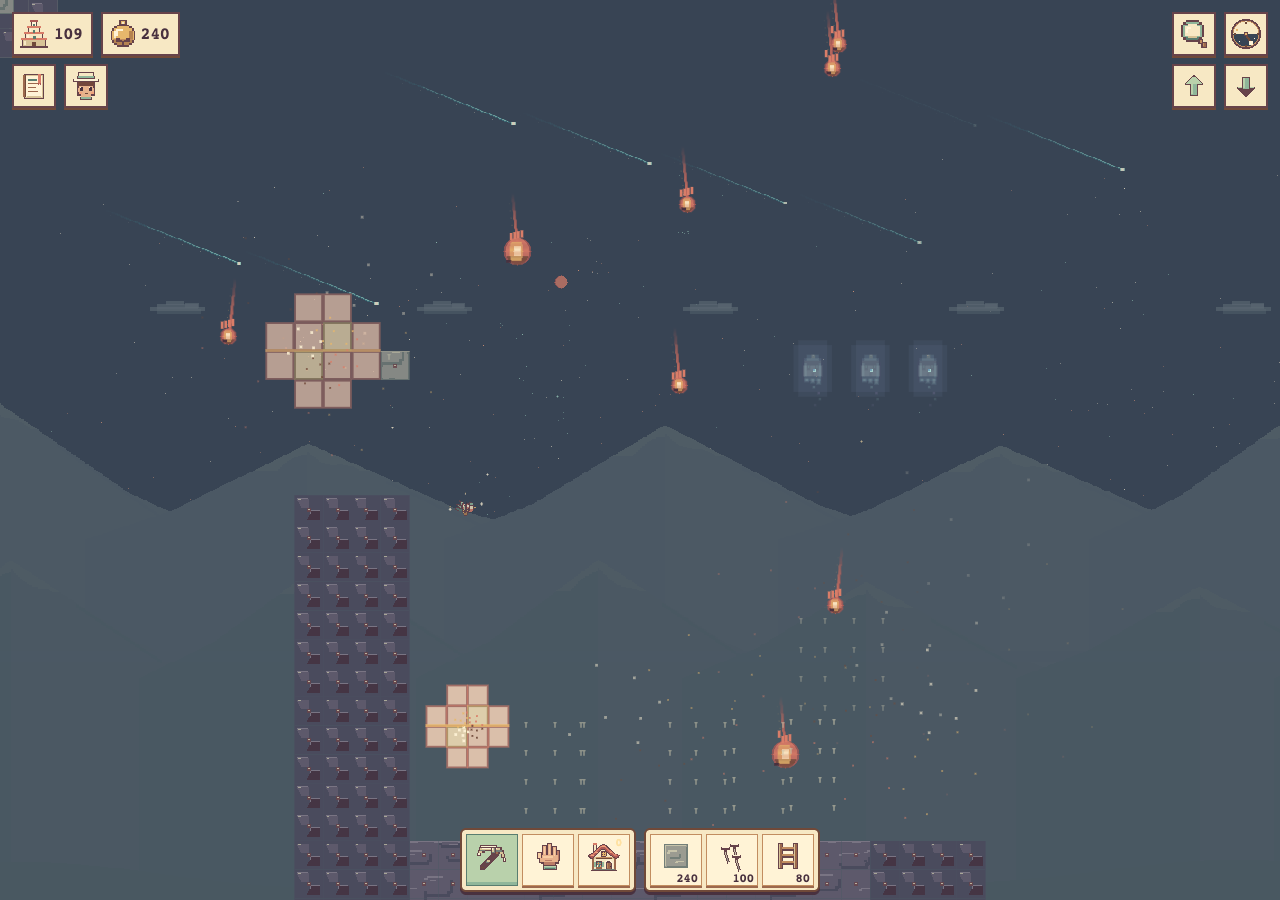
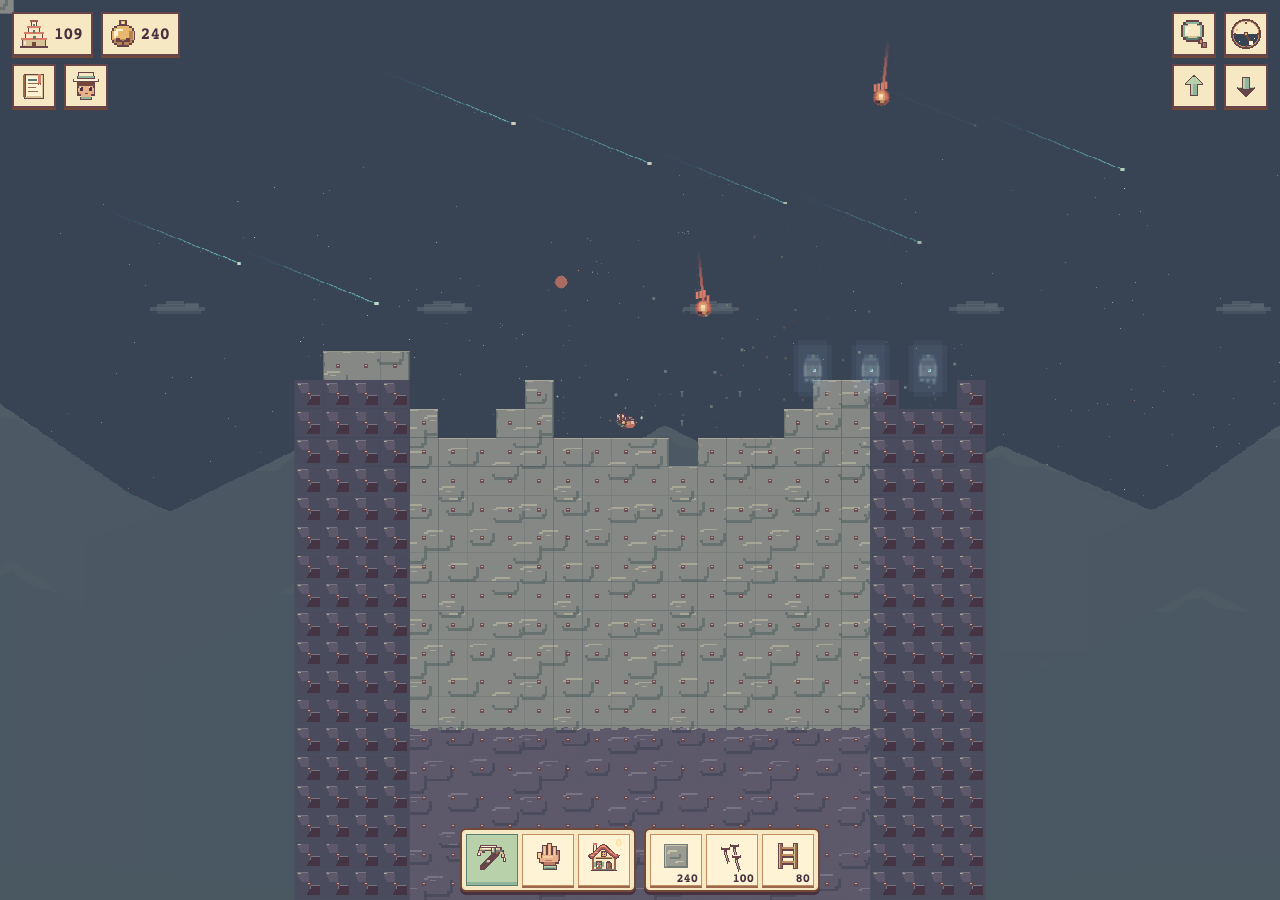
Fracture brimstone-hit blocks locally and preserve strong materials

diff --git a/dist/index.html b/dist/index.html
@@ -152,7 +152,7 @@
 </div>
 <script src="https://cdn.jsdelivr.net/npm/matter-js@0.20.0/build/matter.min.js"></script>
 <script src="audio.js?v=83"></script>
-<script src="game-v28.js?v=83"></script>
+<script src="game-v28.js?v=84"></script>
 <script>
 for(const [id,label,fn] of [['musicToggle','MUSIC', 'setMusicEnabled'],['sfxToggle','SFX','setSfxEnabled']])document.getElementById(id).addEventListener('click',async()=>{await window.SkyAudio?.ensure();const on=window.SkyAudio?.[fn](!document.getElementById(id).matches('[aria-pressed=true]'));const b=document.getElementById(id);b.setAttribute('aria-pressed',on);b.textContent=(label==='MUSIC'?'♫ ':'♪ ')+label+' '+(on?'ON':'OFF')});
 </script>

diff --git a/tower-of-babel/index.html b/tower-of-babel/index.html
@@ -152,7 +152,7 @@
 </div>
 <script src="https://cdn.jsdelivr.net/npm/matter-js@0.20.0/build/matter.min.js"></script>
 <script src="audio.js?v=83"></script>
-<script src="game-v28.js?v=83"></script>
+<script src="game-v28.js?v=84"></script>
 <script>
 for(const [id,label,fn] of [['musicToggle','MUSIC', 'setMusicEnabled'],['sfxToggle','SFX','setSfxEnabled']])document.getElementById(id).addEventListener('click',async()=>{await window.SkyAudio?.ensure();const on=window.SkyAudio?.[fn](!document.getElementById(id).matches('[aria-pressed=true]'));const b=document.getElementById(id);b.setAttribute('aria-pressed',on);b.textContent=(label==='MUSIC'?'♫ ':'♪ ')+label+' '+(on?'ON':'OFF')});
 </script>

diff --git a/dist/game-v28.js b/dist/game-v28.js
@@ -127,7 +127,7 @@ async function read(url){
     tail=tail.replace(marker,(await read('game-v80-winter-inspection.txt?v=80'))+'\n'+marker);
     tail=tail.replace(marker,(await read('game-v81-moonfire.txt?v=81'))+'\n'+marker);
     tail=tail.replace(marker,(await read('game-v82-moonfire-demo.txt?v=82'))+'\n'+marker);
-    tail=tail.replace(marker,(await read('game-v83-brimstone.txt?v=83'))+'\n'+marker);
+    tail=tail.replace(marker,(await read('game-v83-brimstone.txt?v=84'))+'\n'+marker);
     const src=core+'\n});\n'+liquid+'\n'+tail;
     (0,eval)(src);
   }catch(e){

diff --git a/tower-of-babel/game-v28.js b/tower-of-babel/game-v28.js
@@ -127,7 +127,7 @@ async function read(url){
     tail=tail.replace(marker,(await read('game-v80-winter-inspection.txt?v=80'))+'\n'+marker);
     tail=tail.replace(marker,(await read('game-v81-moonfire.txt?v=81'))+'\n'+marker);
     tail=tail.replace(marker,(await read('game-v82-moonfire-demo.txt?v=82'))+'\n'+marker);
-    tail=tail.replace(marker,(await read('game-v83-brimstone.txt?v=83'))+'\n'+marker);
+    tail=tail.replace(marker,(await read('game-v83-brimstone.txt?v=84'))+'\n'+marker);
     const src=core+'\n});\n'+liquid+'\n'+tail;
     (0,eval)(src);
   }catch(e){

diff --git a/dist/buttonwood/ART-GUIDE.md b/dist/buttonwood/ART-GUIDE.md
@@ -788,11 +788,14 @@ dynamic. Constructor/restored hit values are imported before the accessor, so
 loading an undamaged nailed block never spends its armor. Material max durability
 stays unchanged, with the nail providing the separate first point.
 
-The barrage spawns at 140ms intervals after an eight-second build-up, with at
-most 24 active projectiles and 640 total launches. Fast swept Matter rays and
+The barrage spawns at 450ms intervals after an eight-second build-up, with at
+most 24 active projectiles and 200 total launches in a fresh shower. Fast swept Matter rays and
 wild-sprite segment tests prevent tunneling. Each 4/6-cell rounded blast damages
-a body once, regardless of how many covered cells overlap it. Damage is two
-points across materials; bedrock retains its existing immunity. Natural terrain
+a body once, regardless of how many covered cells overlap it. Large placed blocks fracture into saved cell-sized bodies on contact; only
+intersected pieces take damage. Real polygon tests preserve rotated shapes.
+Actual nails, previous wear, material, total area cost and motion transfer.
+Untouched pieces keep nails and durability. Dirt/wood/stone take two points;
+obsidian/deepslate take one. Bedrock retains its existing immunity. Natural terrain
 stays anchored until destroyed, with removed-cell/save bookkeeping preserved.
 Dynamic debris uses real existing bodies, bounded velocities and angular impulse.
 No replacement collision envelopes or inventory rewards are introduced.

diff --git a/tower-of-babel/buttonwood/ART-GUIDE.md b/tower-of-babel/buttonwood/ART-GUIDE.md
@@ -788,11 +788,14 @@ dynamic. Constructor/restored hit values are imported before the accessor, so
 loading an undamaged nailed block never spends its armor. Material max durability
 stays unchanged, with the nail providing the separate first point.
 
-The barrage spawns at 140ms intervals after an eight-second build-up, with at
-most 24 active projectiles and 640 total launches. Fast swept Matter rays and
+The barrage spawns at 450ms intervals after an eight-second build-up, with at
+most 24 active projectiles and 200 total launches in a fresh shower. Fast swept Matter rays and
 wild-sprite segment tests prevent tunneling. Each 4/6-cell rounded blast damages
-a body once, regardless of how many covered cells overlap it. Damage is two
-points across materials; bedrock retains its existing immunity. Natural terrain
+a body once, regardless of how many covered cells overlap it. Large placed blocks fracture into saved cell-sized bodies on contact; only
+intersected pieces take damage. Real polygon tests preserve rotated shapes.
+Actual nails, previous wear, material, total area cost and motion transfer.
+Untouched pieces keep nails and durability. Dirt/wood/stone take two points;
+obsidian/deepslate take one. Bedrock retains its existing immunity. Natural terrain
 stays anchored until destroyed, with removed-cell/save bookkeeping preserved.
 Dynamic debris uses real existing bodies, bounded velocities and angular impulse.
 No replacement collision envelopes or inventory rewards are introduced.

diff --git a/dist/buttonwood/qa/brimstone/README.md b/dist/buttonwood/qa/brimstone/README.md
@@ -30,3 +30,21 @@ Physics debris consists of existing blocks; no permanent particle bodies accrue.
 Audio uses the Effects bus with spatial, chord-root impacts and volume/pause
 guards. [Barrage screenshot](barrage.png) shows an isolated simulation after
 roughly 12 seconds of active play, before transient effects are cleared by load.
+
+## Local fracture revision — v84
+
+Reviewed under bible §§3–5 and §10: existing native material tiles and progressive
+crack marks identify individual surviving cells. No new palette or pixel scale.
+Large placed rectangles split into real cell bodies on first contact. Rotation,
+material, existing wear, area cost, velocity, and actual cell nails transfer; only
+blast-intersecting pieces are damaged. Geometry tests use real polygon collision,
+not only bounding boxes. Two points for soft materials/stone; one for obsidian
+and deepslate. Each affected piece is processed once; untouched pieces keep pins.
+The 450ms launch cadence caps a fresh shower at 200 launches.
+
+Browser regressions cover a 5×5 nailed stone block becoming 25 pieces, exactly
+12 worn cells and 13 untouched cells, then only the worn stone cells disappearing
+on the next strike. Obsidian survives both strikes; rotated deepslate survives;
+fragment shape, wear, nails and material survive save/restore. Existing actor
+deaths, pause, event eligibility and demo save isolation remain covered.
+The updated barrage screenshot shows the less destructive actual survival scene.

diff --git a/tower-of-babel/buttonwood/qa/brimstone/README.md b/tower-of-babel/buttonwood/qa/brimstone/README.md
@@ -30,3 +30,21 @@ Physics debris consists of existing blocks; no permanent particle bodies accrue.
 Audio uses the Effects bus with spatial, chord-root impacts and volume/pause
 guards. [Barrage screenshot](barrage.png) shows an isolated simulation after
 roughly 12 seconds of active play, before transient effects are cleared by load.
+
+## Local fracture revision — v84
+
+Reviewed under bible §§3–5 and §10: existing native material tiles and progressive
+crack marks identify individual surviving cells. No new palette or pixel scale.
+Large placed rectangles split into real cell bodies on first contact. Rotation,
+material, existing wear, area cost, velocity, and actual cell nails transfer; only
+blast-intersecting pieces are damaged. Geometry tests use real polygon collision,
+not only bounding boxes. Two points for soft materials/stone; one for obsidian
+and deepslate. Each affected piece is processed once; untouched pieces keep pins.
+The 450ms launch cadence caps a fresh shower at 200 launches.
+
+Browser regressions cover a 5×5 nailed stone block becoming 25 pieces, exactly
+12 worn cells and 13 untouched cells, then only the worn stone cells disappearing
+on the next strike. Obsidian survives both strikes; rotated deepslate survives;
+fragment shape, wear, nails and material survive save/restore. Existing actor
+deaths, pause, event eligibility and demo save isolation remain covered.
+The updated barrage screenshot shows the less destructive actual survival scene.

diff --git a/dist/buttonwood/ART-BIBLE.md b/dist/buttonwood/ART-BIBLE.md
@@ -1321,9 +1321,13 @@ HUD remains usable and the event still has no announcement (§§3–4, 8–10).
 This supersedes v81's light meteor damage and heat-proof obsidian. A standard
 blast uses the rounded four-cell mask `0xx0 / xxxx / xxxx / 0xx0`; larger balls
 use six-cell circles. Visual footprints snap to the same native grid as damage.
-Every affected non-bedrock block takes one two-point strike per explosion. A
-nail supplies one armor point, is consumed first, and all pins on that damaged
-physics block break. Surviving placed blocks become movable, with mass-sensitive
+Impacts fracture large placed blocks into cell-sized material pieces. Only pieces
+intersecting the rounded blast footprint wear down: dirt, wood and stone take two
+points; deepslate and obsidian take one. Each piece is hit once per explosion,
+regardless of overlapping blast cells. Unhit pieces retain durability and actual
+nails. A nail supplies one armor point, is consumed first, and pins on that
+damaged piece break. The 450ms hail cadence leaves time to read progressive
+cracks, missing cells and debris rather than whole-block disappearance. Surviving placed blocks become movable, with mass-sensitive
 outward/upward impulses and rotation. Every other source of positive block
 damage also breaks its nail before reducing material durability.
 

diff --git a/tower-of-babel/buttonwood/ART-BIBLE.md b/tower-of-babel/buttonwood/ART-BIBLE.md
@@ -1321,9 +1321,13 @@ HUD remains usable and the event still has no announcement (§§3–4, 8–10).
 This supersedes v81's light meteor damage and heat-proof obsidian. A standard
 blast uses the rounded four-cell mask `0xx0 / xxxx / xxxx / 0xx0`; larger balls
 use six-cell circles. Visual footprints snap to the same native grid as damage.
-Every affected non-bedrock block takes one two-point strike per explosion. A
-nail supplies one armor point, is consumed first, and all pins on that damaged
-physics block break. Surviving placed blocks become movable, with mass-sensitive
+Impacts fracture large placed blocks into cell-sized material pieces. Only pieces
+intersecting the rounded blast footprint wear down: dirt, wood and stone take two
+points; deepslate and obsidian take one. Each piece is hit once per explosion,
+regardless of overlapping blast cells. Unhit pieces retain durability and actual
+nails. A nail supplies one armor point, is consumed first, and pins on that
+damaged piece break. The 450ms hail cadence leaves time to read progressive
+cracks, missing cells and debris rather than whole-block disappearance. Surviving placed blocks become movable, with mass-sensitive
 outward/upward impulses and rotation. Every other source of positive block
 damage also breaks its nail before reducing material durability.
 
